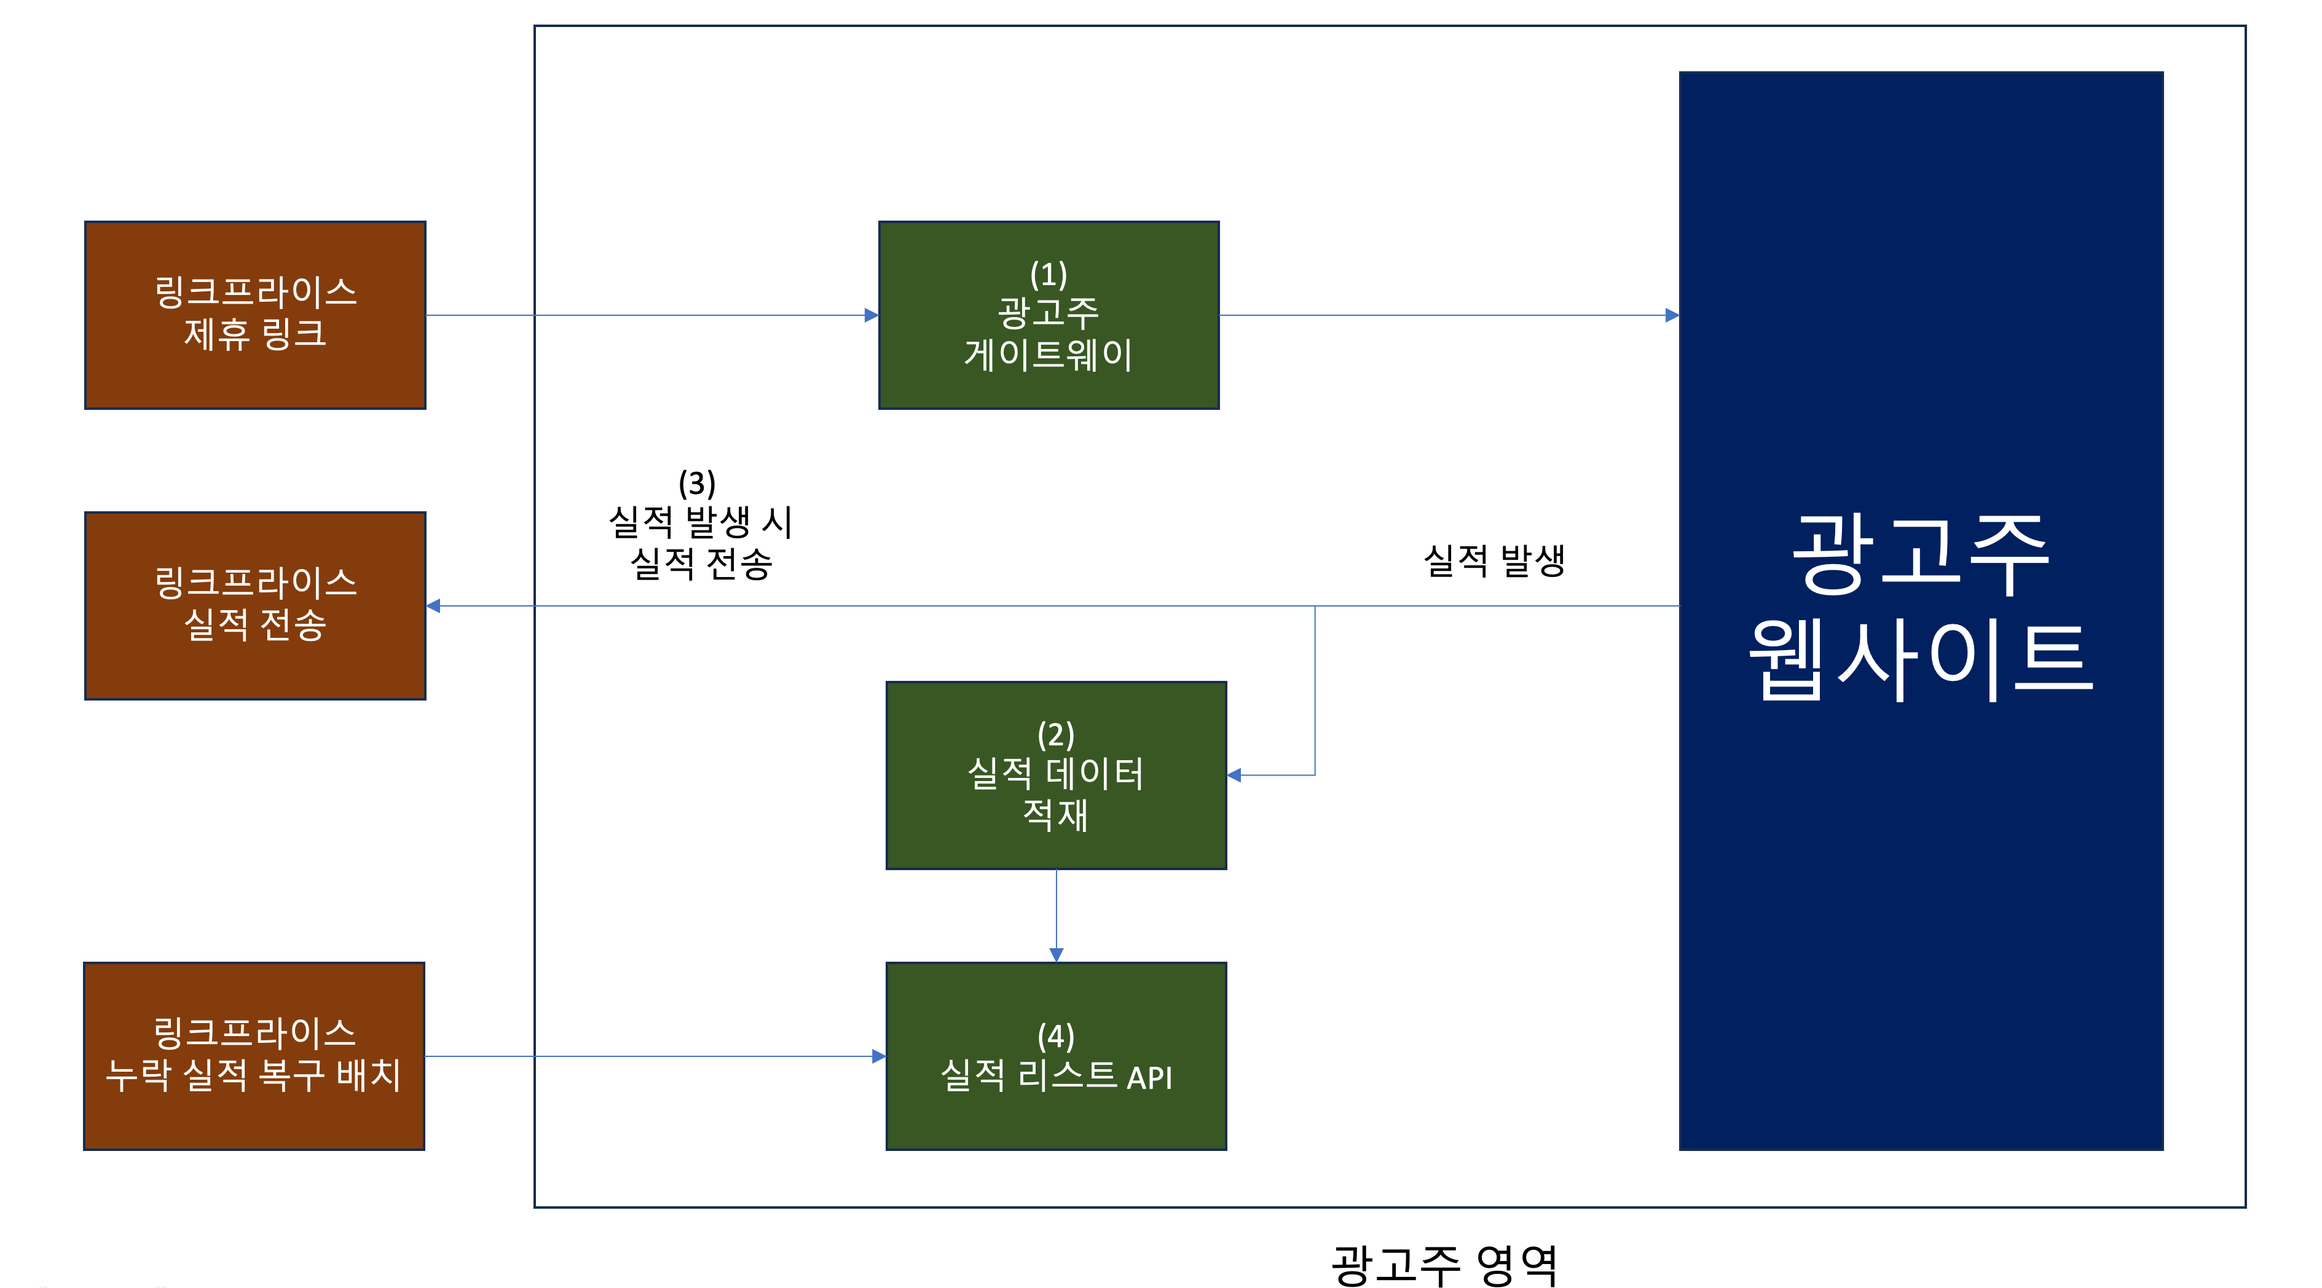
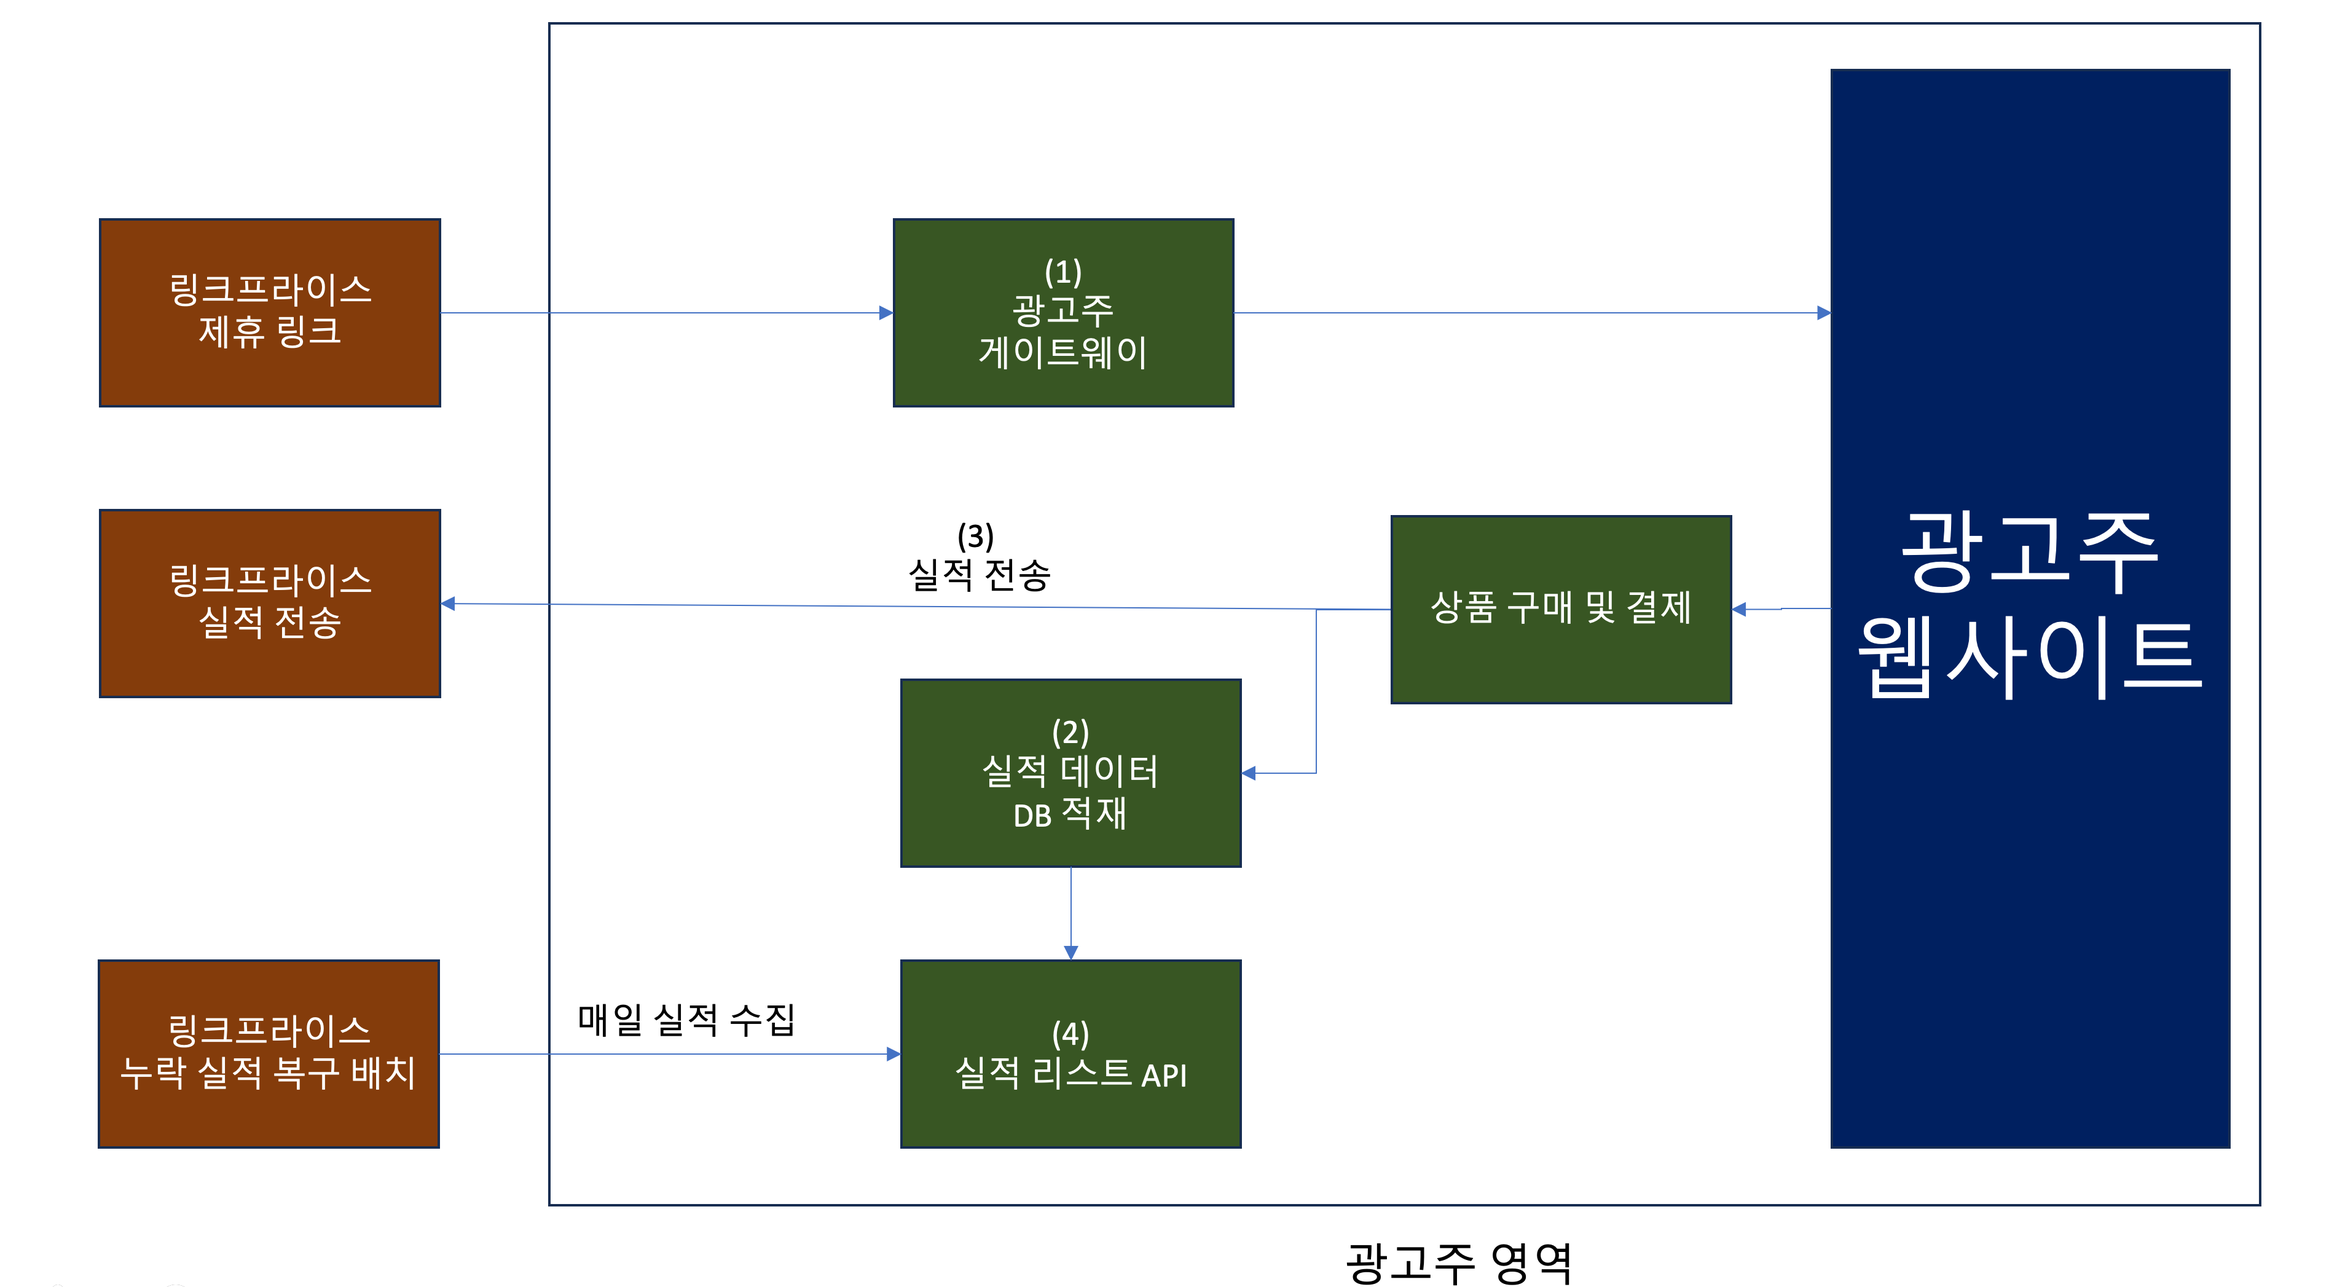
docs: 피드백 받아 1차 수정

diff --git a/CPS/README.md b/CPS/README.md
@@ -18,37 +18,47 @@
 
 셋업 작업을 위해선 아래 작업들을 진행해주셔야 합니다.
 
+
+
+## 2-1. 연동 흐름과 광고주 작업 내역
+
 ![image-1](image1.png)
 
-**목차**
+(1) 광고주 게이트웨이
 
-1. [광고주 사이트 내부에 게이트웨이 페이지 작업하기](#2-1-게이트웨이-작업)
+[광고주 사이트 내부에 게이트웨이 페이지 작업하기](#2-2-게이트웨이-작업)
 
-2. [실적 발생 시, 자체 별도 DB 테이블 생성 후 적재하기](#2-2-실적-발생-시-자체-별도-db-테이블-생성-후-적재-작업)
+(2) 실적 데이터 DB 적재
 
-3. [링크프라이스 실적 발생 시, 링크프라이스에게 실적 전송하기](#2-3-링크프라이스-실적-발생-시-링크프라이스에게-실적-전송하기)
+[실적 발생 시, 자체 별도 DB 테이블 생성 후 적재하기](#2-3-실적-발생-시-자체-별도-db-테이블-생성-후-적재-작업)
 
-4. [링크프라이스의 실적으로 실적 리스트 API 작업하기](#2-4-링크프라이스의-실적으로-실적-리스트-api-작업하기)
+(3) 실적 전송
+
+[링크프라이스 실적 발생 시, 링크프라이스에게 실적 전송하기](#2-4-링크프라이스-실적-발생-시-링크프라이스에게-실적-전송하기)
+
+(4) 실적 리스트 API
+
+[링크프라이스의 실적으로 실적 리스트 API 작업하기](#2-5-링크프라이스의-실적으로-실적-리스트-api-작업하기)
 
 
 
-## 2-1. 게이트웨이 작업
+## 2-2. 광고주 게이트웨이 작업
 
-### 2-1-1. 작업이 필요한 이유
+### 2-2-1. 작업이 필요한 이유
 
 링크프라이스에 소속된 매체(Affiliate)[^2]들은 링크프라이스에서 제공하는 제휴 링크[^3]를 통해 자신의 사이트 혹은 타 사이트에서 홍보활동을 진행합니다.
 
-광고주 입장에서는 발생되는 실적이 링크프라이스의 실적인지를 판단할 수 있는 값(Tracking Code)이 필요한데요.
+광고주 입장에서는 발생되는 실적이 링크프라이스의 실적인지를 판단할 수 있는 값(Tracking Code)이 필요합니다.
 
 이 트래킹 코드를 링크프라이스에서는 **"LPINFO" 라고 정의**합니다.
 
-게이트웨이[^4]를 통해 클라이언트에 쿠키가 생성되고 이 생성된 쿠키를 가지고 실적을 트래킹하게 됩니다.
+광고주 게이트웨이[^4]를 통해 클라이언트에 쿠키가 생성되고 이 생성된 쿠키를 가지고 실적을 트래킹하게 됩니다.
 
 
 
-### 2-1-2. 개요
+### 2-2-2. 개요
 
-게이트웨이[^4]에서는 아래와 같은 동작을 합니다.
+광고주 게이트웨이[^4]에서는 아래와 같은 동작을 합니다.
 
 ```
 1. 파라미터 유효성 체크
@@ -56,18 +66,20 @@
 3. 광고주 사이트로 이동
 ```
 
-링크프라이스의 제휴링크를 통해 광고주의 게이트웨이 페이지를 거쳐서 트래킹 코드가 생성된 이후, 광고주 사이트로 진입하게 됩니다.
+링크프라이스의 제휴링크를 통해 광고주 게이트웨이 페이지를 거쳐서 트래킹 코드가 생성된 이후, 광고주 사이트로 진입하게 됩니다.
 
 ![image-20210216180317429](image-20210216180317429.png)
 
-### 2-1-3. 작업 방법
+### 2-2-3. 작업 방법
 
-**Step1**. 링크프라이스에서 광고주에게 트래킹을 위한 자바스크립트 코드를 전달합니다.
+**Step1**. 링크프라이스에서 광고주에게 실적 트래킹을 위한 자바스크립트 코드를 전달합니다.
+
+> 해당 자바스크립트 코드는 광고주 사이트 내에 실적 트래킹을 위한 쿠키 생성 후 광고주 사이트로 리다이렉션하는 코드가 내장되어 있습니다.
+>
+> 다만 광고주 사이트의 환경에 따라 해당 코드는 다르게 셋팅될 수 있습니다.
 
 **Step2**. 사이트 내부에 게이트웨이 페이지 URL를 생성 후, 링크프라이스에서 전달받은 자바스크립트 코드를 추가해주십시오.
 
-> 내부적으로 트래킹을 위해서 링크프라이스에서는 Google Tag Manager 플랫폼을 사용 중입니다.
->
 > 게이트웨이 구현의 경우 사용하시는 서버 환경에 따라 편하게 구현해주시면 됩니다.
 >
 > 예시)
@@ -92,11 +104,17 @@
 
 
 
-### 2-1-4. 샘플 코드
+### 2-2-4. 샘플 코드
+
+링크프라이스에서는 셋팅 작업 시, 광고주에게 생성된 자바스크립트 코드를 전달해 드립니다.
+
+게이트웨이 페이지에 **전달받으신 자바스크립트 코드를 수정없이 삽입**바랍니다.
+
+해당 코드를 전달받지 못했을 시, 링크프라이스 담당자에게 연락바랍니다.
+
+
 
 아래 샘플코드는 참고용으로 실제 코드와는 다릅니다.
-
-반드시, **링크프라이스에서 제공하는 코드를 추가**바랍니다.
 
 ```javascript
 <!-- Google Tag Manager -->
@@ -110,19 +128,19 @@
 
 
 
-## 2-2. 실적 발생 시, 자체 별도 DB 테이블 생성 후 적재 작업
+## 2-3. 실적 발생 시, 자체 별도 DB 테이블 생성 후 적재 작업
 
-### 2-2-1. 작업이 필요한 이유
+### 2-3-1. 작업이 필요한 이유
 
 링크프라이스로 실시간으로 전송한 데이터가 네트워크 전송 지연 이슈나 프로그램 오류로 인해 전송되지 않을 수가 있습니다.
 
 링크프라이스로 전송한 데이터와 광고주에 저장된 데이터를 대조하여 정산을 진행하고자 저장을 요청드리고 있습니다.
 
-적재하신 데이터는 [2.4 실적 리스트 API 작업](#2-4-링크프라이스의-실적으로-실적-리스트-api-작업하기)에 활용됩니다.
+적재하신 데이터는 [2-5. 실적 리스트 API 작업](#2-5-링크프라이스의-실적으로-실적-리스트-api-작업하기)에 활용됩니다.
 
 
 
-### 2-2-2. 작업 방법
+### 2-3-2. 작업 방법
 
 **Step1**. 사용하시는 DB에 테이블을 생성합니다.
 
@@ -148,7 +166,7 @@ create table lpinfo(
 
 
 
-### 2-2-3. 샘플 코드
+### 2-3-3. 샘플 코드
 
 **※ 주의**
 
@@ -316,9 +334,9 @@ Set dbConnection = Nothing
 
 
 
-## 2-3. 링크프라이스 실적 발생 시, 링크프라이스에게 실적 전송하기
+## 2-4. 링크프라이스 실적 발생 시, 링크프라이스에게 실적 전송하기
 
-### 2-3-1. 작업이 필요한 이유
+### 2-4-1. 작업이 필요한 이유
 
 링크프라이스의 제휴링크로 유입되어 발생된 실적에 대해서 링크프라이스가 요구하는 스펙에 맞춰 반드시 실시간으로 실적 전송을 해주셔야 합니다.
 
@@ -326,7 +344,7 @@ Set dbConnection = Nothing
 
 
 
-### 2-3-2. 개요
+### 2-4-2. 개요
 
 ```
 1. 실적 발생!
@@ -336,13 +354,13 @@ Set dbConnection = Nothing
 
 
 
-### 2-3-3. 작업 방법
+### 2-4-3. 작업 방법
 
 **Step1**. 링크프라이스 실적 수집 프로그램에 실적을 전송하기 위해 아래 요구 스펙을 참고합니다.
 
 
 
-**2-3-3-1. REQUEST 개요**
+**2-4-3-1. REQUEST 개요**
 
 
 |제목|내용|
@@ -354,7 +372,7 @@ Set dbConnection = Nothing
 |요청 파라미터 형식|JSON 문자열|
 |응답 파라미터 형식|JSON 문자열|
 
-**2-3-3-2. REQUEST 파라미터**
+**2-4-3-2. REQUEST 파라미터**
 
 | KEY                                         | 값                                                                                                                                                                                                                                                                                                                                                                                                                                                                                                                                           | 타입             |
 |---------------------------------------------|---------------------------------------------------------------------------------------------------------------------------------------------------------------------------------------------------------------------------------------------------------------------------------------------------------------------------------------------------------------------------------------------------------------------------------------------------------------------------------------------------------------------------------------------|----------------|
@@ -426,65 +444,22 @@ Set dbConnection = Nothing
 
 
 
-**Step2**. 서버 환경에 맞춰 링크프라이스 실적 수집 프로그램에 실적을 전송하는 프로그램을 작성 합니다.
+**2-4-3-4. Response 개요**
+
+| 키 이름       | 값                  | 타입    |
+| ------------- | ------------------- | ------- |
+| is_success    | 실적 전송 성공 여부 | boolean |
+| error_message | 에러 상세 메세지    | string  |
+| order_code    | 주문번호            | string  |
+| product_code  | 상품번호            | string  |
+
+>응답값은 JSON 문자열 형식으로 전송됩니다.
+>
+>응답은 2차원 배열로 구매한 상품 숫자만큼 응답이 전송됩니다.
 
 
 
-[2-3-4. 샘플코드 참고](#2-3-4-샘플-코드)
-
-
-
-**예시)**
-
-```
-구매자가 링크프라이스 제휴링크를 타고 쇼핑몰로 인입하였다.
-쇼핑몰에서 7,000원짜리 HDMI 케이블2개, 6,000원짜리 봉지라면 3개를 장바구니에 담았다.
-해당 상품은 무료배송 상품이었고 결제 화면에서 할인쿠폰 3000원을 사용하고는 결제를 완료하였다.
-```
-
-**할인코드 적용 시 계산 방법)**
-
-```
-각 상품 최종 금액에 대해 할인금액 적용 수식)
-상품최종금액 - 할인금액 * 상품최종금액 / 주문최종금액 = 할인적용된 최종금액
-
-할인쿠폰 적용전에 결제해야 할 금액은 32,000원 입니다.
-3,000원짜리 할인쿠폰을 사용하였으니 최종적으로 구매자가 지불해야 할 금액은 29,000원입니다
-할인쿠폰 사용전에는 HDMI 케이블의 상품 최종 금액(products[].product_final_price)은 14,000원이었지만 3,000원짜리 할인쿠폰을 사용하였으므로 14,000 - 3,000 * 14,000 / 32,000 = 12,687.5원 입니다.
-
-할인쿠폰 적용전에 봉지라면의 상품 최종 금액(products[].product_final_price)은 18,000원 이었는데 3,000원 할인쿠폰을 사용하였으므로 18,000 - 3,000 * 18,000 / 32,000 = 16,312.5원 입니다.
-
-상품 최종 금액(products[].product_final_price)의 합은 주문 최종 금액(order.final_paid_price)과 같아야 하지만, 소수점 버림으로 인한 절삭 금액으로 인해 한자리 수 금액이 차이가 발생될 수 있습니다.
-링크프라이스 실적 수집 프로그램에서는 금액의 한자리 수 단위 차이는 허용하고 있습니다.
-
-주문 최종 금액 계산 예시)
-12687.5(products[].product_final_price) + 16312.5(products[].product_final_price) = 29000(order.final_paid_price)
-```
-
-
-
-**Step3**. URL 호출 후 응답값을 확인합니다.
-
-
-
-응답값은 JSON 문자열 형식으로 전송됩니다.
-
-응답은 2차원 배열로 구매한 상품 숫자만큼 응답이 전송됩니다.
-
-
-
-**2-3-3-4. Response 개요**
-
-|키 이름|값|타입|
-|------|---|---|
-| is_success |실적 전송 성공 여부|boolean|
-| error_message |에러 상세 메세지|string|
-| order_code |주문번호|string|
-| product_code |상품번호|string|
-
-
-
-**2-3-3-5. Response 샘플**
+**2-4-3-5. Response 샘플**
 
 * 2개 상품 구매 후, 전송 성공 시
 
@@ -526,7 +501,7 @@ Set dbConnection = Nothing
 
 
 
-**2-3-3-5. Response 상세 사유**
+**2-4-3-6. Response 상세 사유**
 
 * 아래 목록에 존재하지 않는 응답일 경우, 링크프라이스 담당자에게 호출했던 요청값과 응답값을 전달주시면 확인 가능합니다.
 
@@ -554,8 +529,53 @@ Set dbConnection = Nothing
 
 
 
+**Step2**. 서버 환경에 맞춰 링크프라이스 실적 수집 프로그램에 실적을 전송하는 프로그램을 작성 합니다.
 
-### 2-3-4. 샘플 코드
+
+
+[2-4-4. 실적 전송 샘플코드 참고](#2-4-4-샘플-코드)
+
+
+
+작업 진행 시, 예상할 수 있는 시나리오는 아래를 참고 바랍니다.
+
+
+
+**실적 전송 시 예상 시나리오)**
+
+```
+구매자가 링크프라이스 제휴링크를 타고 쇼핑몰로 인입하였다.
+쇼핑몰에서 7,000원짜리 HDMI 케이블2개, 6,000원짜리 봉지라면 3개를 장바구니에 담았다.
+해당 상품은 무료배송 상품이었고 결제 화면에서 할인쿠폰 3000원을 사용하고는 결제를 완료하였다.
+```
+
+**금액 계산 방법)**
+
+```
+법오각 상품 최종 금액에 대해 할인금액 적용 수식)
+상품최종금액 - 할인금액 * 상품최종금액 / 주문최종금액 = 할인적용된 최종금액
+
+할인쿠폰 적용전에 결제해야 할 금액은 32,000원 입니다.
+3,000원짜리 할인쿠폰을 사용하였으니 최종적으로 구매자가 지불해야 할 금액은 29,000원입니다
+할인쿠폰 사용전에는 HDMI 케이블의 상품 최종 금액(products[].product_final_price)은 14,000원이었지만 3,000원짜리 할인쿠폰을 사용하였으므로 14,000 - 3,000 * 14,000 / 32,000 = 12,687.5원 입니다.
+
+할인쿠폰 적용전에 봉지라면의 상품 최종 금액(products[].product_final_price)은 18,000원 이었는데 3,000원 할인쿠폰을 사용하였으므로 18,000 - 3,000 * 18,000 / 32,000 = 16,312.5원 입니다.
+
+상품 최종 금액(products[].product_final_price)의 합은 주문 최종 금액(order.final_paid_price)과 같아야 하지만, 소수점 버림으로 인한 절삭 금액으로 인해 한자리 수 금액이 차이가 발생될 수 있습니다.
+링크프라이스 실적 수집 프로그램에서는 금액의 한자리 수 단위 차이는 허용하고 있습니다.
+
+주문 최종 금액 계산 예시)
+12687.5(products[].product_final_price) + 16312.5(products[].product_final_price) = 29000(order.final_paid_price)
+```
+
+
+
+**Step3**. 링크프라이스의 실적 전송 URL 호출 후 응답값이 정상적으로 출력되는지 확인합니다.
+
+
+
+
+### 2-4-4. 샘플 코드
 
 **※ 주의**
 
@@ -822,9 +842,9 @@ echo $response;
 
 
 
-## 2-4. 링크프라이스의 실적으로 실적 리스트 API 작업하기
+## 2-5. 링크프라이스의 실적으로 실적 리스트 API 작업하기
 
-### 2-4-1. 작업이 필요한 이유
+### 2-5-1. 작업이 필요한 이유
 
 광고주가 실적 수집 프로그램을 통해 전송한 실적 데이터는 링크프라이스 데이터베이스에 적재합니다.
 
@@ -840,7 +860,7 @@ echo $response;
 
 
 
-### 2-4-2. 개요
+### 2-5-2. 개요
 
 이 API의 명칭은 실적목록 API 입니다.
 
@@ -886,7 +906,7 @@ https://api.yourdomain.com/linkprice/order_list_v1?canceled_ymd=yyyymmdd
 
 
 
-### 2-4-3. 작업 방법
+### 2-5-3. 작업 방법
 
 **Step1**. 실적목록 API를 작성하기 위해 아래 요구 출력 스펙을 참고합니다.
 
@@ -959,7 +979,7 @@ https://api.yourdomain.com/linkprice/order_list_v1?canceled_ymd=yyyymmdd
 
 
 
-###2-4-4. 샘플 코드
+###2-5-4. 샘플 코드
 
 **※ 주의**
 
@@ -1404,6 +1424,7 @@ foreach($products as $orderId => $product) {
 //실적 데이터 출력
 echo json_encode($data);
 ```
+
 
 [^1]: 홍보가 필요한 기업의 제품 또는 서비스를 보유한 주체
 [^2]: 블로그, 카페, 각종 SNS을 운영하며 머천트의 광고를 유치
